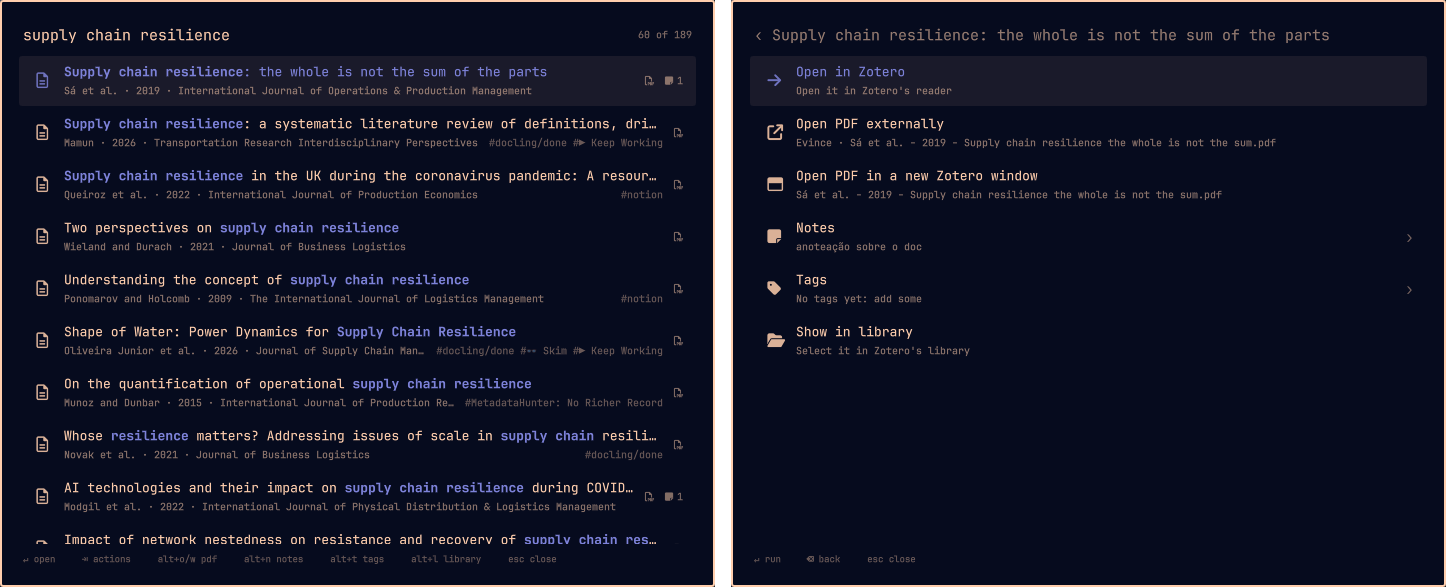
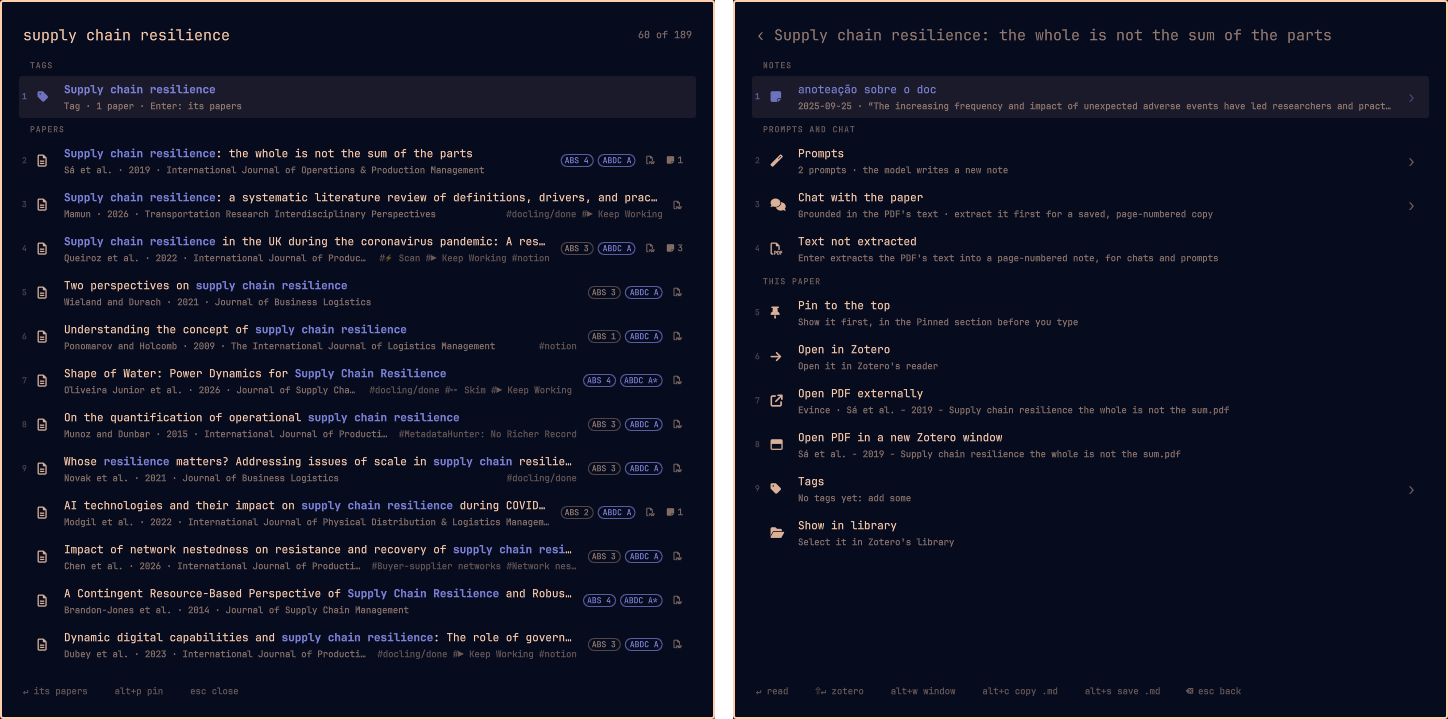
README and manifest for the Omarchy Plugin Marketplace: a fresh preview, how to list and update it, the Settings row, tags, resume and note size

diff --git a/README.md b/README.md
@@ -9,7 +9,7 @@
 and an AI model of your choice, ready to review it, chat about it and quote it with page numbers. All from the keyboard, without
 hunting through Zotero's windows.
 
-![Search results, and the menu for one of them](preview.png)
+![Search results with matching tags and journal rankings, and the menu for one paper: its notes, prompts and chat](preview.png)
 
 **At a glance**
 
@@ -117,6 +117,9 @@ Zotero keeps it up to date from then on (it checks this repository's releases).
 omarchy plugin add https://github.com/mbradaschia/oma-zotero-launcher --enable
 ```
 
+Or find it in the [Omarchy Plugin Marketplace](https://plugins.omarchy.org/#catalog) once it's listed there; it
+gives the same command.
+
 ### 3. The keybinding
 
 Add this to `~/.config/hypr/bindings.lua`, then run `hyprctl reload`:
@@ -192,7 +195,7 @@ the note reader and in the note window.
 | `Shift+Enter` | open what's highlighted in Zotero: the paper (its tab or PDF), the collection, the note |
 | `Alt+W` | a window: a paper's PDF in its own Zotero window, a note in its own window |
 | `Alt+C` / `Alt+S` | copy a note as Markdown / save it as a `.md` file in Downloads |
-| `Alt+P` | pin or unpin a paper or a collection |
+| `Alt+P` | pin or unpin a paper, a collection or a tag |
 | `Alt+O` / `Alt+N` / `Alt+T` / `Alt+L` | a paper's PDF in your PDF app / its notes / its tags / show it in your library |
 | `Alt+E` | edit a prompt |
 | `Alt+Q` | the task queue (prompt runs and text extractions), from anywhere |
@@ -200,12 +203,15 @@ the note reader and in the note window.
 | `Backspace` | with nothing typed: back a level |
 
 Where there's nothing to type (the note reader and the note window), the same letters work without `Alt`:
-`z` (like `Shift+Enter`), `w`, `c`, `s`, and `j` `k` scroll. The paper's `Alt` keys work in its menus too,
-not just in the results.
+`z` (like `Shift+Enter`), `w`, `c`, `s`, and `j` `k` scroll; `Ctrl+-` and `Ctrl++` change the text size. The
+paper's `Alt` keys work in its menus too, not just in the results.
 
-### Tasks and chats
+The launcher picks up where you left it: close it (`Esc` at the top, or your keybinding) and reopen it, and
+you're back in the same view, menu, query and row.
 
-Before you type, the results start with **Tasks** and **Chats** (when there are any):
+### Tasks, chats and settings
+
+Before you type, the results start with **Tasks** and **Chats** (when there are any), and **Settings**:
 
 - **Tasks** is the queue of prompt runs and text extractions, running, finished or failed; the footer shows
   how many are running wherever you are, and `Alt+Q` opens it from any list. Running a prompt or extracting
@@ -214,6 +220,8 @@ Before you type, the results start with **Tasks** and **Chats** (when there are 
   (the notes stay in Zotero).
 - **Chats** lists your chats with every paper, newest first: `Enter` reopens one in its window. *New chat…*
   asks for the paper (search as usual, `Enter` picks it) and opens a chat about it.
+- **Settings**: models and providers, defaults, the launcher's own settings, and what the AI features need
+  (see [Settings](#settings)).
 
 ### Search
 
@@ -254,7 +262,8 @@ Search terms (all must match):
 - **Notes**: the paper's notes, newest first (its [extracted text](#extracted-text) among them); see
   [Notes](#notes). `Alt+N` opens them as a list of their own.
 - **Prompts and chat**: **Prompts** (see [Prompts](#prompts)), **Chat with the paper** (see
-  [Chat with a paper](#chat-with-a-paper)), and the text extraction: **Text not extracted** or **Text
+  [Chat with a paper](#chat-with-a-paper)) or, until an AI model is set up, **Set up an AI model** (it opens
+  *Settings › Models & providers*), and the text extraction: **Text not extracted** or **Text
   extracted ✓**; `Enter` extracts it, or extracts it again and replaces the note (see
   [Extracted text](#extracted-text)).
 - **This paper**:
@@ -262,7 +271,7 @@ Search terms (all must match):
   - **Open in Zotero**: its detail says what it does, such as "Switch to its open tab".
   - **Open PDF externally**, in your default PDF app or `externalPdfCommand`; **Open PDF in a new Zotero
     window**, one you can tile. With several files, you pick one; missing files are listed with the reason.
-  - **Tags** (see [Tags](#tags)), **Show in library**.
+  - **Tags** (see [the tag editor](#tags)), **Show in library**.
 
 Type to filter the menu.
 
@@ -300,7 +309,7 @@ Copies and saved files are the note as Zotero's *Export Note → Markdown* gives
 
 The paper's menu → **Prompts** lists them. `Enter` runs one: the model reads the paper and its answer is saved
 as a new note on it, usually within a few minutes. It runs in the background, the launcher stays open, and the
-run shows in [Tasks](#tasks-and-chats) (`Alt+Q`); a notification says when the note is saved.
+run shows in [Tasks](#tasks-chats-and-settings) (`Alt+Q`); a notification says when the note is saved.
 
 Two prompts come with it:
 
@@ -545,7 +554,7 @@ details. A provider's **Test connection** says what's wrong with it:
 | ChatGPT (subscription) | *not signed in* / *signed in with an API key* | `codex login` with your ChatGPT account (`codex logout` first if it uses a key). |
 | OpenAI, Anthropic, Gemini, OpenRouter | *no API key* / *the API key was refused (401)* | Set the key again from the clipboard (a fresh one from the provider's page), or check the environment variable. |
 | any API | *rate limited or out of credit (429)* | Wait, or add credit with the provider; set a fallback model in Defaults. |
-| Ollama | *isn't answering* / *has no models* | `omarchy pkg add ollama` and start it (`systemctl enable --now ollama`); `ollama pull qwen3:8b`. |
+| Ollama | *isn't answering* / *has no models* | `omarchy pkg add ollama`, start it (`ollama serve`, or its service), then `ollama pull qwen3:8b`. |
 | an endpoint | *can't reach …* / *answered 404* | Check the base URL ends where its `/models` lives (usually `/v1`), and its key. |
 
 Include what Test connection says when you [report an issue](https://github.com/mbradaschia/oma-zotero-launcher/issues).
@@ -602,6 +611,27 @@ build is reproducible), and publishes the GitHub release with the `.xpi`, its SH
 notes. Installed bridges then update themselves, and `omarchy plugin update` brings the launcher to `master`.
 
 The journal lists come with the bridge: `scripts/update-rankings.sh` downloads them again.
+
+### The Omarchy Plugin Marketplace
+
+The launcher is listed in the community [Omarchy Plugin Marketplace](https://plugins.omarchy.org/#catalog)
+([its repository](https://github.com/omacom/omarchy-plugin-marketplace)). The listing reads this repository:
+`manifest.json` (id, name, version, author, description, kinds, entry points), this README (install and
+removal), `LICENSE` and `preview.png` (the card image, resized by the marketplace).
+
+- **First listing**: the repository must be public. Open a *[Plugin]: Zotero Launcher* issue with the
+  [submission form](https://github.com/omacom/omarchy-plugin-marketplace/issues/new?template=submit-plugin.yml)
+  (category *Productivity*; tags `launcher`, `ai`, `education`) or from the CLI as its
+  [SUBMISSION.md](https://github.com/omacom/omarchy-plugin-marketplace/blob/main/SUBMISSION.md) describes.
+  Automated validation and a static security baseline run on the exact commit; a maintainer then approves it.
+  Expect *review required* rather than *passed*: the runner's installer (`scripts/install-runner.sh`)
+  and the CI workflow's package install are reported as capabilities for a maintainer to accept.
+- **After each release**: the marketplace notices a newer commit and shows *Update unverified* until you ask
+  it to verify the new one with the
+  [verification form](https://github.com/omacom/omarchy-plugin-marketplace/issues/new?template=verify-plugin.yml)
+  (*Verify and publish a newer upstream commit*: the plugin id `io.github.mbradaschia.oma-zotero`, this
+  repository's URL and the release commit's full SHA).
+- The plugin id is permanent there: never change `id` in `manifest.json`.
 
 ## Roadmap
 
